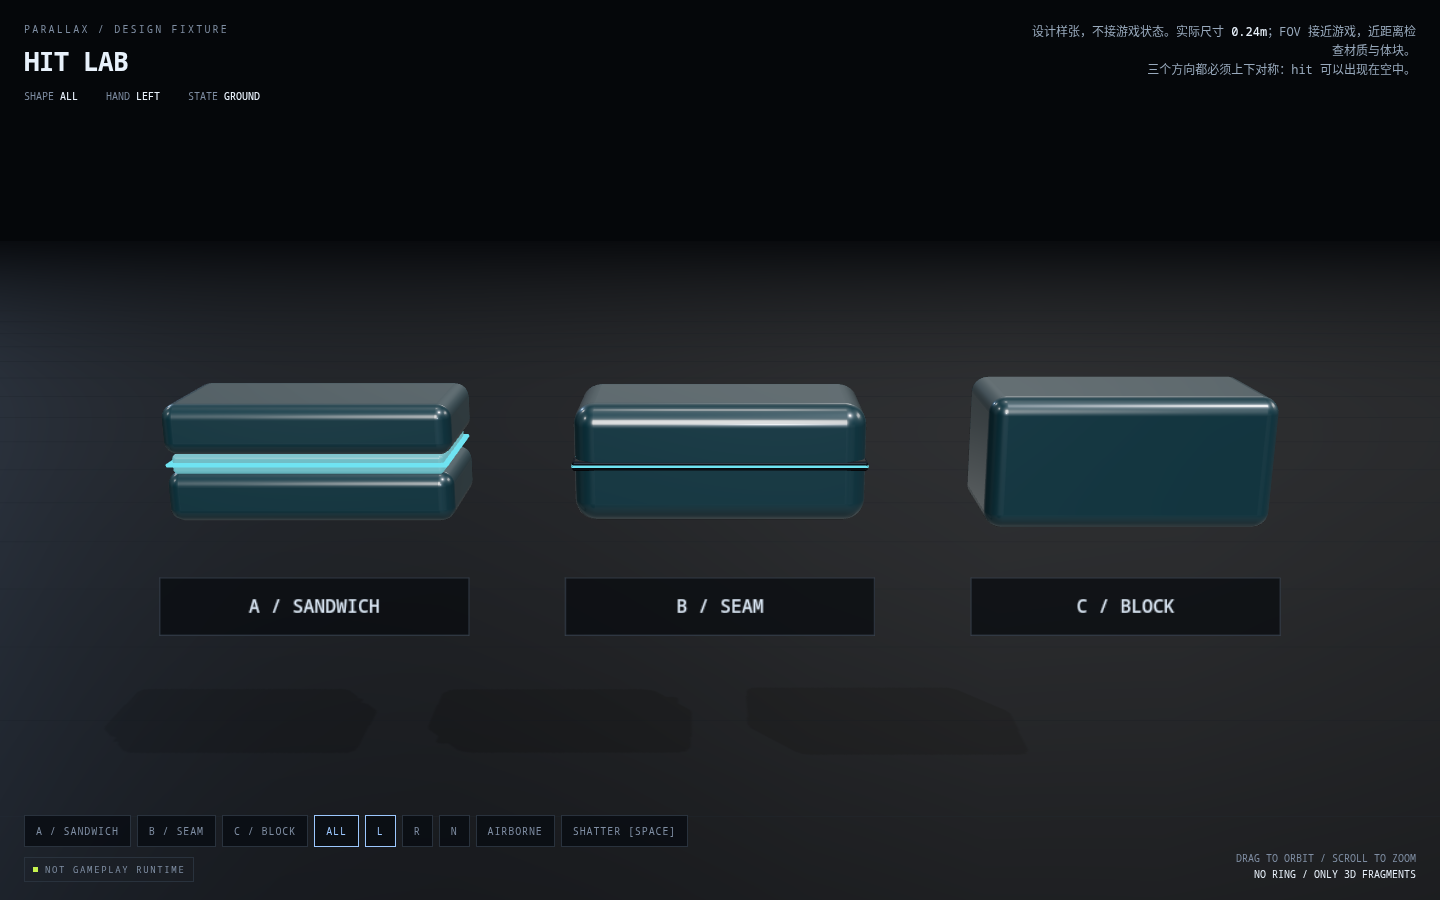
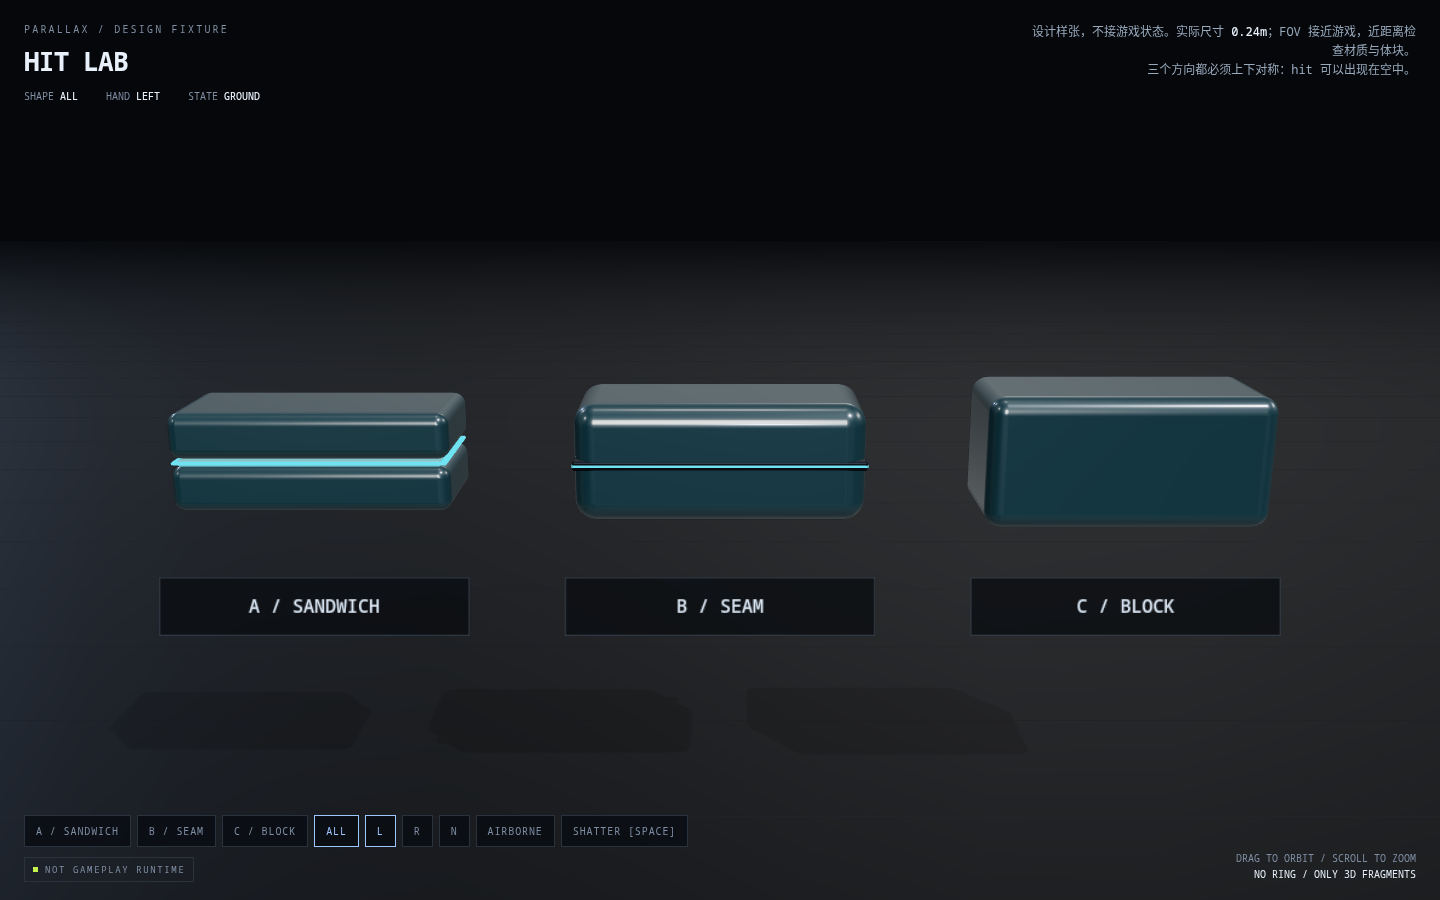
refine(hit): slim sandwich silhouette

Changed region(s): [[0.0938, 0.4044, 0.3438, 0.5911]]

diff --git a/prototype/src/game/hitVisual.ts b/prototype/src/game/hitVisual.ts
@@ -7,12 +7,13 @@ import type { MaterialLibrary } from '../materials/library';
 import { HAND_LEFT, HAND_RIGHT } from '../materials/palette';
 
 /**
- * hit 的实体：一整块厚釉面，中腰开一圈暗槽，槽里是一条手别色光缝。
+ * hit 的实体：上下两片同形釉面，夹一层窄金属芯，中腰一条手别色光缝。
  *
- * 为什么不再用“底座 + 键帽”：
- * hit 可以出现在空中，从下方看时底座会读成一块多余的黑板；
- * 上下形状必须一致。也不能做成上下两片等大的“夹心”——那会被读成两颗叠起来的键。
- * 现在只有一个体块，俯视、仰视、平视都完整；手别色靠中腰的一圈窄光缝读出来。
+ * 用户确认 sandwich 方向更好。这里保留夹心，但把整体压薄：
+ * - 总高 0.084m（上一版 0.11m），比原版 0.055m 仍厚，但不再是一块砖；
+ * - 上下两片完全同形，空中 / 仰视不会出现“底座”；
+ * - 光缝收在体块内部，不探出左右边缘，避免读成两片刀片；
+ * - 缝仍然在，低角度和远处能读出左右手。
  *
  * 判定仍然只看时间；这里的尺寸只影响视觉。判定盒在 player.ts 里独立维护，
  * 所以 FEEL-02 调判定面积时不会被这套几何牵着走。
@@ -30,15 +31,17 @@ export interface HitVisualFactory {
 }
 
 export const HIT_VISUAL = {
-  width: 0.238,
-  height: 0.11,
-  depth: 0.104,
-  grooveWidth: 0.2395,
-  grooveHeight: 0.011,
-  grooveDepth: 0.105,
-  seamWidth: 0.2405,
-  seamHeight: 0.0042,
-  seamDepth: 0.106,
+  width: 0.232,
+  height: 0.084,
+  depth: 0.096,
+  halfHeight: 0.039,
+  halfY: 0.0225,
+  coreWidth: 0.218,
+  coreHeight: 0.006,
+  coreDepth: 0.09,
+  seamWidth: 0.228,
+  seamHeight: 0.0028,
+  seamDepth: 0.092,
 } as const;
 
 function withFade<T extends THREE.Material>(material: T, options: HitVisualOptions): T {
@@ -59,18 +62,20 @@ export function hitFragmentColor(hand?: Hand | 'none'): number {
 
 export function createHitVisualFactory(lib: MaterialLibrary, options: HitVisualOptions = {}): HitVisualFactory {
   // —— 共享几何：全部 hit 复用，只有材质按手别区分 ——
-  const bodyGeometry = new RoundedBoxGeometry(
+  // 上下两片共用一个居中几何，靠 position.y 镜像摆放；
+  // 不用负缩放，避免底面翻面。
+  const halfGeometry = new RoundedBoxGeometry(
     HIT_VISUAL.width,
-    HIT_VISUAL.height,
+    HIT_VISUAL.halfHeight,
     HIT_VISUAL.depth,
-    5,
-    0.016,
+    4,
+    0.01,
   );
 
-  const grooveGeometry = new RoundedBoxGeometry(
-    HIT_VISUAL.grooveWidth,
-    HIT_VISUAL.grooveHeight,
-    HIT_VISUAL.grooveDepth,
+  const coreGeometry = new RoundedBoxGeometry(
+    HIT_VISUAL.coreWidth,
+    HIT_VISUAL.coreHeight,
+    HIT_VISUAL.coreDepth,
     3,
     0.002,
   );
@@ -80,17 +85,17 @@ export function createHitVisualFactory(lib: MaterialLibrary, options: HitVisualO
     HIT_VISUAL.seamHeight,
     HIT_VISUAL.seamDepth,
     2,
-    0.0016,
+    0.0012,
   );
 
-  // —— 暗槽：比釉面宽 0.75mm，形成一圈很窄的机械凹槽 ——
-  const grooveMaterial = withFade(lib.steel.clone(), options);
-  grooveMaterial.color.setHex(0x20252c);
-  grooveMaterial.metalness = 0.72;
-  grooveMaterial.roughness = 0.34;
-  grooveMaterial.envMapIntensity = 0.85;
+  // —— 金属芯：只填在两片釉面之间，形成一道很窄的暗缝 ——
+  const coreMaterial = withFade(lib.steel.clone(), options);
+  coreMaterial.color.setHex(0x20252c);
+  coreMaterial.metalness = 0.72;
+  coreMaterial.roughness = 0.34;
+  coreMaterial.envMapIntensity = 0.85;
 
-  // —— 釉面：整块键共用同一材质，低角度才有“被灯打到”的边 ——
+  // —— 釉面：上下两片共用同一材质，低角度才有“被灯打到”的边 ——
   function createCapMaterial(source: THREE.MeshPhysicalMaterial, accent: number): THREE.MeshPhysicalMaterial {
     const material = withFade(source.clone(), options) as THREE.MeshPhysicalMaterial;
     material.roughness = 0.3;
@@ -136,15 +141,23 @@ export function createHitVisualFactory(lib: MaterialLibrary, options: HitVisualO
       const group = new THREE.Group();
       group.name = `hit-${key}`;
 
-      const body = new THREE.Mesh(bodyGeometry, capMaterials[key]);
-      body.renderOrder = 5;
-      body.frustumCulled = false;
-      group.add(body);
+      const core = new THREE.Mesh(coreGeometry, coreMaterial);
+      core.renderOrder = 4;
+      core.frustumCulled = false;
+      group.add(core);
 
-      const groove = new THREE.Mesh(grooveGeometry, grooveMaterial);
-      groove.renderOrder = 4;
-      groove.frustumCulled = false;
-      group.add(groove);
+      const capMaterial = capMaterials[key];
+      const top = new THREE.Mesh(halfGeometry, capMaterial);
+      top.position.y = HIT_VISUAL.halfY;
+      top.renderOrder = 5;
+      top.frustumCulled = false;
+      group.add(top);
+
+      const bottom = new THREE.Mesh(halfGeometry, capMaterial);
+      bottom.position.y = -HIT_VISUAL.halfY;
+      bottom.renderOrder = 5;
+      bottom.frustumCulled = false;
+      group.add(bottom);
 
       const seam = new THREE.Mesh(seamGeometry, seamMaterials[key]);
       seam.renderOrder = 6;
@@ -157,10 +170,10 @@ export function createHitVisualFactory(lib: MaterialLibrary, options: HitVisualO
     dispose(): void {
       if (disposed) return;
       disposed = true;
-      bodyGeometry.dispose();
-      grooveGeometry.dispose();
+      halfGeometry.dispose();
+      coreGeometry.dispose();
       seamGeometry.dispose();
-      grooveMaterial.dispose();
+      coreMaterial.dispose();
       for (const material of Object.values(capMaterials)) material.dispose();
       for (const material of Object.values(seamMaterials)) material.dispose();
     },

diff --git a/design/hit-lab/main.js b/design/hit-lab/main.js
@@ -49,7 +49,7 @@ const SHAPES = [
 
 const query = new URLSearchParams(location.search);
 const state = {
-  shape: query.get('shape') === 'all' ? 'all' : SHAPES.some((s) => s.id === query.get('shape')) ? query.get('shape') : 'all',
+  shape: query.get('shape') === 'all' ? 'all' : SHAPES.some((s) => s.id === query.get('shape')) ? query.get('shape') : 'sandwich',
   hand: ['left', 'right', 'none'].includes(query.get('hand')) ? query.get('hand') : 'left',
   air: query.get('air') === '1',
 };
@@ -175,18 +175,18 @@ function makeRounded(width, height, depth, radius, material) {
 function buildSandwich(materials) {
   const group = new THREE.Group();
 
-  const top = makeRounded(0.238, 0.043, 0.104, 0.012, materials.ceramic);
-  top.position.y = 0.0285;
+  const top = makeRounded(0.232, 0.039, 0.096, 0.01, materials.ceramic);
+  top.position.y = 0.0225;
   group.add(top);
 
-  const bottom = makeRounded(0.238, 0.043, 0.104, 0.012, materials.ceramic);
-  bottom.position.y = -0.0285;
+  const bottom = makeRounded(0.232, 0.039, 0.096, 0.01, materials.ceramic);
+  bottom.position.y = -0.0225;
   group.add(bottom);
 
-  const core = makeRounded(0.224, 0.017, 0.098, 0.004, materials.core);
+  const core = makeRounded(0.218, 0.006, 0.09, 0.002, materials.core);
   group.add(core);
 
-  const seam = makeRounded(0.232, 0.0032, 0.104, 0.0014, materials.line);
+  const seam = makeRounded(0.228, 0.0028, 0.092, 0.0012, materials.line);
   group.add(seam);
 
   return group;

diff --git a/design/hit-lab/README.md b/design/hit-lab/README.md
@@ -9,7 +9,8 @@
 
 - 当前 hit 上下形状不对称，但 hit 可以出现在空中；
 - 不要用一圈 2D 冲击环，这是 3D 游戏，直接做碎裂；
-- 先把造型 / 碎裂在简单 three.js 环境里看，再放回游戏。
+- 先把造型 / 碎裂在简单 three.js 环境里看，再放回游戏；
+- 第二轮反馈：**sandwich 方向更好**，但整体有点太粗太厚。
 
 这个样张只回答这三件事，不接判定、音频、WebXR、谱面。
 
@@ -17,12 +18,12 @@
 
 | ID | 结构 | 结论 |
 | --- | --- | --- |
-| A / SANDWICH | 上下两片釉面 + 金属芯 + 光缝 | 上下对称，但容易读成两颗叠起来的键；不采用 |
-| **B / SEAM** | **整块厚釉面 + 中腰暗槽 + 手别色光缝** | **采用**；一个体块、上下同形、左右手可读 |
+| **A / SANDWICH** | **上下两片同形釉面 + 窄金属芯 + 内收光缝** | **最终采用**；压薄到总高 0.084m，缝收在体块内部，不再像两片刀片 |
+| B / SEAM | 整块厚釉面 + 中腰暗槽 + 手别色光缝 | 第一轮曾采用；第二轮被 A 取代 |
 | C / BLOCK | 整块厚釉面，无附加结构 | 造型太像肥皂，远端与低角度缺少手别色；不采用 |
 
-最终移植尺寸：`0.238 × 0.11 × 0.104m`。主代码见
-[`prototype/src/game/hitVisual.ts`](../../prototype/src/game/hitVisual.ts)。
+最终移植尺寸：`0.232 × 0.084 × 0.096m`，上下两片各 `0.039m` 高。
+主代码见 [`prototype/src/game/hitVisual.ts`](../../prototype/src/game/hitVisual.ts)。
 
 ## 碎裂
 
@@ -53,9 +54,9 @@ python3 -m http.server 5200
 ## 截图
 
 - [`docs/ui-vr2/hit-lab-all.png`](../../docs/ui-vr2/hit-lab-all.png) — 三方向并排
-- [`docs/ui-vr2/hit-lab-b.png`](../../docs/ui-vr2/hit-lab-b.png) — 选中的 B
-- [`docs/ui-vr2/hit-lab-b-air.png`](../../docs/ui-vr2/hit-lab-b-air.png) — 空中 / 右手
-- [`docs/ui-vr2/hit-lab-b-shatter.png`](../../docs/ui-vr2/hit-lab-b-shatter.png) — 碎裂
+- [`docs/ui-vr2/hit-lab-a.png`](../../docs/ui-vr2/hit-lab-a.png) — 最终选中的 A / SANDWICH
+- [`docs/ui-vr2/hit-lab-a-air.png`](../../docs/ui-vr2/hit-lab-a-air.png) — 空中 / 右手
+- [`docs/ui-vr2/hit-lab-a-shatter.png`](../../docs/ui-vr2/hit-lab-a-shatter.png) — 碎裂
 
 ## 边界
 

diff --git a/CHANGELOG.md b/CHANGELOG.md
@@ -21,7 +21,7 @@
 - 游玩端流速变更现在会同步到已生成的 arc（`playfield.setFlowSpeed`），和 editor 3D 的行为一致。
 - 手感布局：单轨 0.23→0.27m，判定带近端距离 0.55→0.80m（前移 25cm）；editor 3D 预览共用同一套参数。新增 `?lane` / `?band` 调参。
 - 打击音：hit / drag 使用低通 Kenney UI Audio click；drag 保持原来的 0.17 / 0.11 单层轻击；hit 改为 click 瞬态 + 短低频“thock”双层，更有重量但不更尖。
-- hit 造型重做：先建 `design/hit-lab/` 独立设计样张，比较三个上下对称方向；主代码采用 B（整块厚釉面 + 中腰暗槽 + 手别色光缝），尺寸 0.238×0.11×0.104m。空中 / 仰视也完整，不再是底座 + 键帽。
+- hit 造型重做：先建 `design/hit-lab/` 独立设计样张，比较三个上下对称方向；最终采用压薄的 A / SANDWICH（上下同形釉面 + 窄金属芯 + 内收光缝），尺寸 0.232×0.084×0.096m。空中 / 仰视也完整，不再是底座 + 键帽，也不会读成两颗叠键。
 - hit 打击反馈：移除冲击环，改为直接碎裂成有厚度、受重力的陶瓷片；hit 碎片更大、按 perfect / good 分档，drag / arc / hold 使用更小的碎片。
 - 结算增加 GOOD TIMING：按 hit 的 offset 统计 early / late；hit 的 front z 容差从 0.4 收到 0.22m，减少提前挥入就结算。
 - 判定带增加引导网：竖直贴在 bandZ（同 editor 3D 编辑网格），默认全透明，hit 在 180ms 内接近时只点亮网格线（无底板 / 光晕），perfect ±80ms 时最亮、中心偏暖黄；editor 3D 也自动显示。

diff --git a/prototype/STATUS.md b/prototype/STATUS.md
@@ -38,7 +38,7 @@
 - **arc 流速 / 包 offset（2026-10-20）**：Settings 改流速会同步缩放已生成的 arc；`meta.offset` 改为隐藏的 `chartOffsetMs`，与玩家校准 offset 分离。
 - **手感布局（2026-10-20）**：单轨宽 0.23→0.27m，所有 note / arc 的 x 按 lane 单位同比展开；判定带前移 25cm（近端内 0.80m）。editor 的 3D view 共享 `DEFAULT_PARAMS` / `deriveGeometry`，自动同步。
 - **打击反馈（2026-10-21）**：hit / drag 加打击音（hit 更响、drag 更轻）；结算加 GOOD early / late；判定带加竖直、只亮网格线的时间驱动引导网。hit 前侧 z 容差收到 0.22m，观察 early 偏多是否来自提前挥入。
-- **hit 造型 / 碎裂（2026-10-21）**：先在 [`design/hit-lab`](../design/hit-lab/) 比较三个上下对称方向，采用 B / SEAM；主代码改成 `0.238 × 0.11 × 0.104m` 的整块厚釉面 + 中腰暗槽 + 手别色光缝。命中不再画冲击环，直接碎成陶瓷片；打击音在原 click 上叠一层短低频。判定面积未改。
+- **hit 造型 / 碎裂（2026-10-21）**：先在 [`design/hit-lab`](../design/hit-lab/) 比较三个上下对称方向，最终采用压薄的 A / SANDWICH：`0.232 × 0.084 × 0.096m`，上下同形釉面 + 窄金属芯 + 内收手别色光缝。命中不再画冲击环，直接碎成陶瓷片；打击音在原 click 上叠一层短低频。判定面积未改。
 - **暂缓**：无物量时立即结算，暂不按包内 `meta.duration` 等待；等 Infinity Heaven 谱面补充完成后再处理。
 
 ---

diff --git a/docs/ui-vr2/README.md b/docs/ui-vr2/README.md
@@ -16,12 +16,12 @@
 | `result.png` | 结算，91 Perfect / 100%；右侧 GOOD TIMING 显示 early / late |
 | `sheet.png` | 六屏总览 |
 | `guide.png` | 游玩中的竖直判定引导网：只点亮网格线，不画底板 / 光晕 |
-| `hit-after.png` | 新的对称厚 hit：整块釉面 + 中腰暗槽 + 手别色光缝 |
+| `hit-after.png` | 新的对称 sandwich hit：上下同形釉面 + 窄金属芯 + 内收手别色光缝，总高 0.084m |
 | `hit-impact.png` | 命中后的直接碎裂；没有冲击环，碎片按 perfect / good 分档 |
-| `hit-lab-all.png` | 设计样张：三个对称方向；B / SEAM 被采用 |
-| `hit-lab-b.png` | 采用方向 B 的近距离材质检查 |
-| `hit-lab-b-air.png` | 方向 B 抬到空中、右手；上下同形 |
-| `hit-lab-b-shatter.png` | 方向 B 的碎裂设计样张 |
+| `hit-lab-all.png` | 设计样张：三个对称方向；A / SANDWICH 最终被采用 |
+| `hit-lab-a.png` | 采用方向 A 的近距离材质检查 |
+| `hit-lab-a-air.png` | 方向 A 抬到空中、右手；上下同形 |
+| `hit-lab-a-shatter.png` | 方向 A 的碎裂设计样张 |
 
 `hit-lab-*` 来自 [`design/hit-lab`](../../design/hit-lab/)，是独立光照下的设计样张，不是游戏实拍；
 `hit-after.png` / `hit-impact.png` 才是主代码里的游戏画面。
